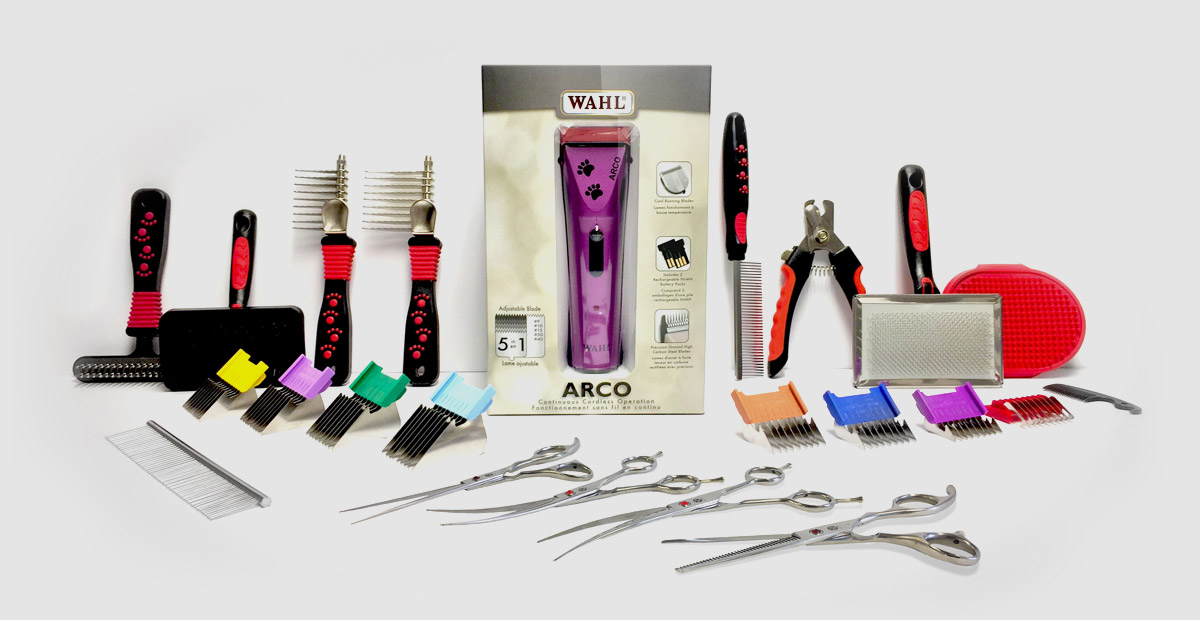
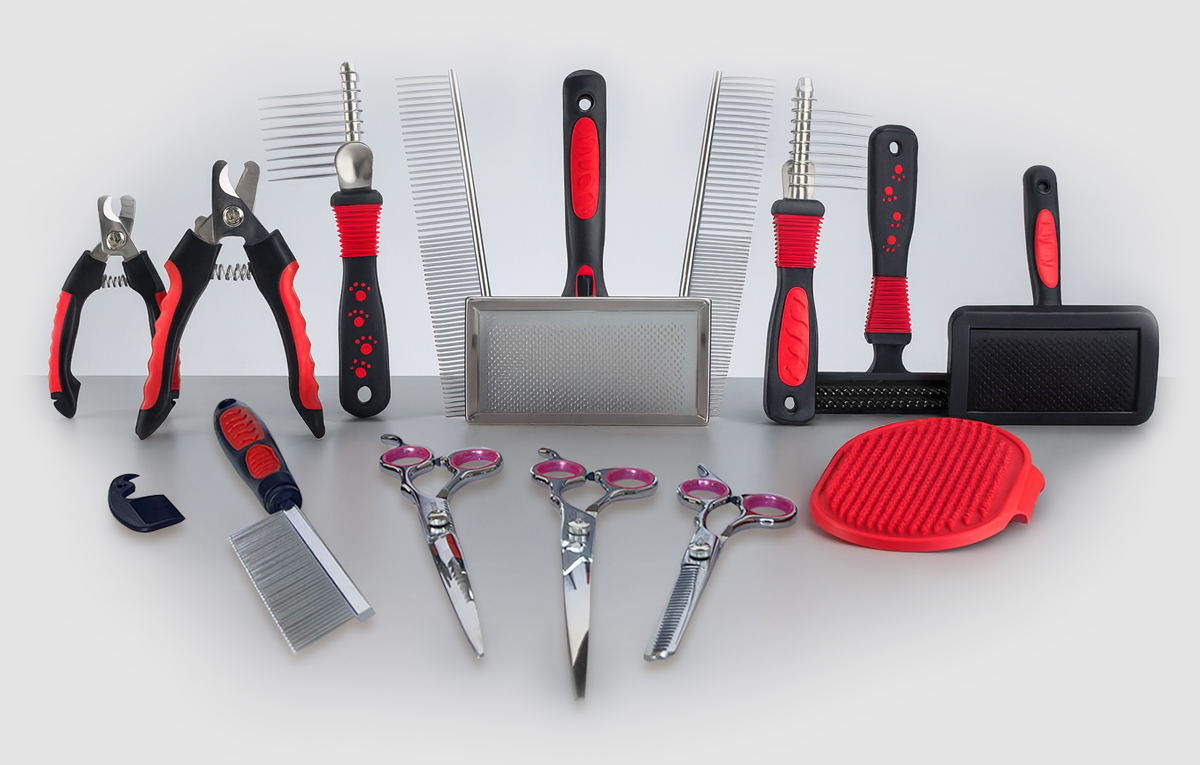
Update graphics

diff --git a/src/app/(main)/certification-courses/dog-grooming-kit/page.tsx b/src/app/(main)/certification-courses/dog-grooming-kit/page.tsx
@@ -3,10 +3,9 @@ import Image from 'next/image';
 import Link from 'next/link';
 import React from 'react';
 
-import ClipperCombsImage from './clippers-combs-kit-550.jpg';
-import FullKitImage from './dog-grooming-kit.jpg';
 import GroomingScissorsImage from './Pro-Grooming-Scissors-550x550.jpg';
 import ToolsStarterSetImage from './tools-starter-set.jpg';
+import FullKitImage from '@/app/(landing)/get-a-dog-grooming-course-preview/dog-grooming-kit.jpg';
 import type { PageComponent } from '@/app/serverComponent';
 
 export const metadata: Metadata = {
@@ -43,11 +42,19 @@ const DogGroomingKitPage: PageComponent = () => (
         <div className="row justify-content-center mb-4">
           <div className="col-12 col-sm-10 col-md-6 mb-4 mb-md-0 d-flex">
             <div className="card">
-              <Image src={ClipperCombsImage} className="card-img-top" alt="cipper combo" style={{ maxWidth: '100%', height: 'auto' }} />
+              <Image src={ToolsStarterSetImage} className="card-img-top" alt="dog gooming starter set" style={{ maxWidth: '100%', height: 'auto' }} />
               <div className="card-body">
-                <h3 className="card-text">WAHL 5-in-1 Cordless Clippers &amp; Comb Attachments</h3>
-                <p className="card-text">A good pair of clippers are a must for any professional dog groomer and most will tell you that WAHL makes the best clippers around. These convenient cordless clippers allow you the freedom to move around the dog and trim its fur comfortably, without having to worry about a pesky cord getting in the way.</p>
-                <p className="card-text">The set comes with 9 attachment combs of varying lengths, so you can achieve almost any look with the handy toolkit!</p>
+                <h3 className="card-text">Grooming Tools Starter Set</h3>
+                <p className="card-text">Some routine tools of the trade that all groomers need are provided in this starter kit. You'll learn to expertly use every one of these tools in your course, and you'll probably use them every day throughout your dog grooming career! This 11-piece set includes:</p>
+                <ul>
+                  <li>2 Slicker Brushes (soft and hard)</li>
+                  <li>2 Nail Clippers (large and small)</li>
+                  <li>2 Mat Breakers (large and small)</li>
+                  <li>An undercoat rake</li>
+                  <li>A greyhound comb</li>
+                  <li>A fine-toothed comb</li>
+                  <li>A curry comb</li>
+                </ul>
               </div>
             </div>
           </div>
@@ -59,24 +66,6 @@ const DogGroomingKitPage: PageComponent = () => (
                 <p className="card-text">Grooming scissors (or shears) are a groomer's best friend. With the right scissors, you can create just about any look on a dog&mdash;from the cutest teddy bear cut to the perfect golden retriever tail and everything in between. As part of your kit, you'll receive a set of three professional-grade grooming scissors and comb! The kit includes a straight blade, a curved blade, and thinning scissors, wrapped in a beautiful leather case for portability and convenience. (Product may vary based on the supplier.)</p>
               </div>
             </div>
-          </div>
-        </div>
-        <div className="row align-items-center justify-content-center">
-          <div className="col-12 col-sm-10 col-md-8 col-lg-6 mb-4 mb-lg-0">
-            <Image src={ToolsStarterSetImage} alt="dog gooming starter set" sizes="100vw" style={{ width: '100%', height: 'auto', objectFit: 'contain' }} />
-          </div>
-          <div className="col-12 col-lg-6">
-            <h3>Grooming Tools Starter Set</h3>
-            <p>Some routine tools of the trade that all groomers need are provided in this starter kit. You'll learn to expertly use every one of these tools in your course, and you'll probably use them every day throughout your dog grooming career! This 11-piece set includes:</p>
-            <ul>
-              <li>2 Slicker Brushes (soft and hard)</li>
-              <li>2 Nail Clippers (large and small)</li>
-              <li>2 Mat Breakers (large and small)</li>
-              <li>An undercoat rake</li>
-              <li>A greyhound comb</li>
-              <li>A fine-toothed comb</li>
-              <li>A curry comb</li>
-            </ul>
           </div>
         </div>
       </div>
